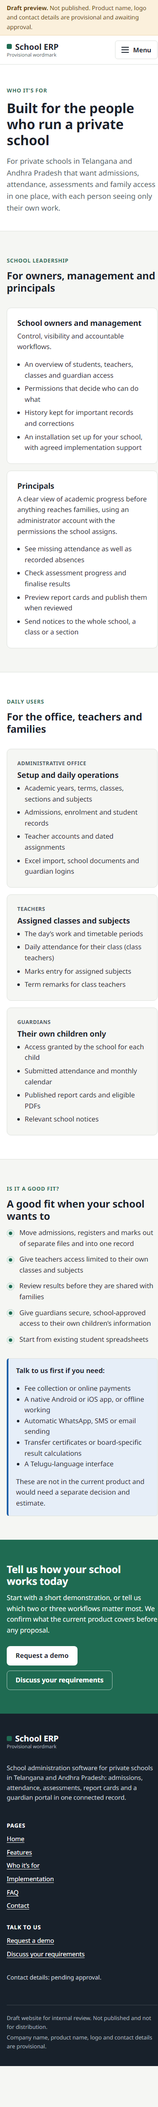
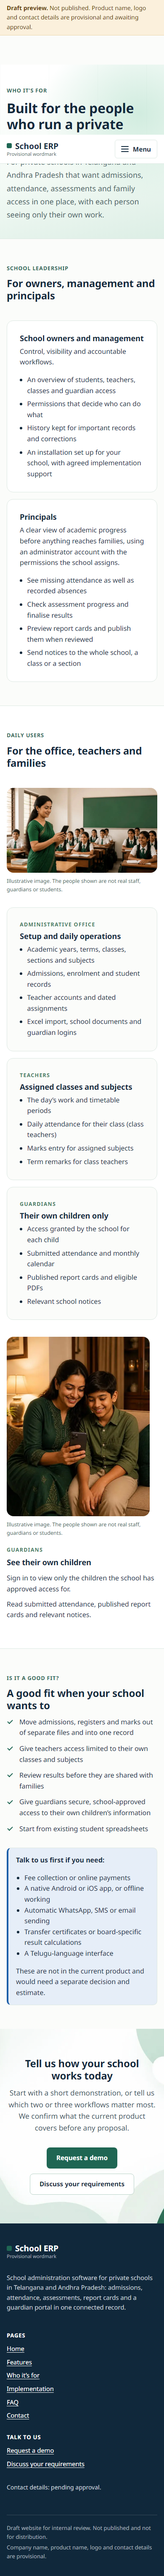
GTM-WEBSITE-V2: refresh QA screenshots and record site green decision

diff --git a/website/src/styles/global.css b/website/src/styles/global.css
@@ -8,7 +8,7 @@
   --paper: #fbfcfa;
   --surface: #ffffff;
   --rule: #dce8e2;
-  --brand: #1f6653;
+  --brand: #1f6653; /* owner decision 2026-11-11: keep the V2 homepage green on the website (brand guideline #1F6B52 is for app/print) */
   --brand-strong: #144e3e;
   --brand-wash: #e1f2e9;
   --surface-tint: #f4f8f5;

diff --git a/docs/content-status.md b/docs/content-status.md
@@ -50,9 +50,9 @@ Statuses: **Not yet imported** → **Draft** → **Approved** → **Published**.
 | CI quality gates | `.github/workflows/quality-checks.yml`, `scripts/ci/`, `docs/CI.md` | Draft | | 2026-11-10 | GTM-CI-01: documentation strict build, nav and exclusion checks; Marp 4.5.1 validation and render smoke test; GTM-DEMO-AUTO-01 adds an offline demo-automation job; validation only, no deployment |
 | Marketing website | `website/` | Draft | | 2026-11-10 | GTM-WEBSITE-01: six-page static Astro 7.3.8 site; provisional wordmark; contact details pending; `noindex` + `robots.txt` block; no forms or tracking; local preview only, not deployed. GTM-WEBSITE-02: responsive refinements (nav from 960 px, odd card rows, diagrams from 900 px, contact and footer tablet layout) and eight copy corrections |
 | Marketing website V2 homepage (design pilot) | `website/src/pages/index.astro`, `website/src/components/home/`, `website/src/data/home.ts`, `website/src/styles/home-v2.css` | Draft | | 2026-11-10 | GTM-WEBSITE-V2 (Draft PR #18): B-led product-led homepage; hero, school-day strip, two image-led feature splits, publication flow, roles, eight-capability grid, implementation steps, FAQ preview, demo CTA; original CSS/SVG illustrations with fictional nameless data following one Class 8A journey, each labelled "not an application screenshot"; all homepage wording in `home.ts`; duplicate workflow strip removed; other five pages unchanged; not deployed; owner review 2026-11-10: continue design review, not cleared to merge or deploy |
-| Marketing website V2 product images | `website/public/images/product/` | Draft | | 2026-11-11 | Four real School ERP screenshots from the demo school (admin overview desktop + phone crop, teacher attendance register on phone, guardian portal home on phone), captured 2026-11-05; all names and figures fictional; owner approved use on the website 2026-11-11; WebP, captioned as demo-school screenshots. Plus `school-team.webp` from `brochure/assets/hero.jpg`, captioned as an illustrative image with no real people. 2026-11-11: `admissions-desk.webp` (Gamma AI image, owner-generated) replaces the last hand-drawn homepage illustration, same caption. `teacher-attendance.webp` (Gamma) added to Who it's for, Daily users section, same caption. `guardian-home-photo.webp` (Gamma) added to Who it's for in a guardian photo row below the three role cards, same caption. `implementation-meeting.webp` (Gamma, second attempt; first rejected for Western setting and fake certificate text) added to Implementation, Who does what section, same caption. `cta-background.webp` (Gamma abstract shapes, no people) is the homepage closing CTA background; CTA switched to dark text and standard buttons |
-| Marketing website V2 QA screenshots | `website/screenshots/marketing-v2/` | Draft | | 2026-11-10 | Full-page homepage captures at 390, 768, 1024, 1366, 1440 and 1920 px from a local build; `font-trial/` holds Noto Sans vs Manrope heading comparisons (Manrope not adopted); illustrations only, no application screenshots or school data |
-| Marketing website QA screenshots | `website/screenshots/marketing-site/` | Draft | | 2026-11-10 | Refreshed in GTM-WEBSITE-02: every page at 390 and 1440 px, Home and Features at 768 and 1024 px, open phone menu; local draft only; no school data; not application screenshots |
+| Marketing website V2 product images | `website/public/images/product/` | Draft | | 2026-11-11 | Four real School ERP screenshots from the demo school (admin overview desktop + phone crop, teacher attendance register on phone, guardian portal home on phone), captured 2026-11-05; all names and figures fictional; owner approved use on the website 2026-11-11; WebP, captioned as demo-school screenshots. Plus `school-team.webp` from `brochure/assets/hero.jpg`, captioned as an illustrative image with no real people. 2026-11-11: `admissions-desk.webp` (Gamma AI image, owner-generated) replaces the last hand-drawn homepage illustration, same caption. `teacher-attendance.webp` (Gamma) added to Who it's for, Daily users section, same caption. `guardian-home-photo.webp` (Gamma) added to Who it's for in a guardian photo row below the three role cards, same caption. `implementation-meeting.webp` (Gamma, second attempt; first rejected for Western setting and fake certificate text) added to Implementation, Who does what section, same caption. `cta-background.webp` (Gamma abstract shapes, no people) is the homepage closing CTA background; CTA switched to dark text and standard buttons. Site green stays #1f6653 (owner decision 2026-11-11) |
+| Marketing website V2 QA screenshots | `website/screenshots/marketing-v2/` | Draft | | 2026-11-10 | Full-page homepage captures at 390, 768, 1024, 1366, 1440 and 1920 px from a local build; `font-trial/` holds Noto Sans vs Manrope heading comparisons (Manrope not adopted); illustrations only, no application screenshots or school data. Refreshed 2026-11-11 after the real screenshots, Gamma images and site-wide V2 design; images are demo-school screenshots (fictional data) and captioned illustrative images |
+| Marketing website QA screenshots | `website/screenshots/marketing-site/` | Draft | | 2026-11-10 | Refreshed in GTM-WEBSITE-02: every page at 390 and 1440 px, Home and Features at 768 and 1024 px, open phone menu; local draft only; no school data; not application screenshots. Refreshed 2026-11-11 (same files) to show the site-wide V2 design and new images |
 | Website publication-readiness checklist | `website/PUBLICATION-READINESS.md` | Draft | | 2026-11-10 | GTM-WEBSITE-02: 13 approval gates with owner, evidence and status (all Pending or Draft evidence) and the controlled launch process; authorises nothing |
 | Website copy review log | `website/COPY-REVIEW.md` | Draft | | 2026-11-10 | GTM-WEBSITE-02: comparison with feature catalogue, deck and sales FAQ; corrections and open owner questions; deployed-build check still required |
 | Playwright demo automation foundation | `demo/playwright/` | Draft | | 2026-11-10 | GTM-DEMO-AUTO-01: read-only Admin/Teacher/Guardian scenes and 8/30-minute sequences; routes verified in `school-erp` source (`main` c6284df) only; 11 scenes implemented, 7 provisional, 7 unavailable; no live or staging run yet; screenshots off and never for staging |
